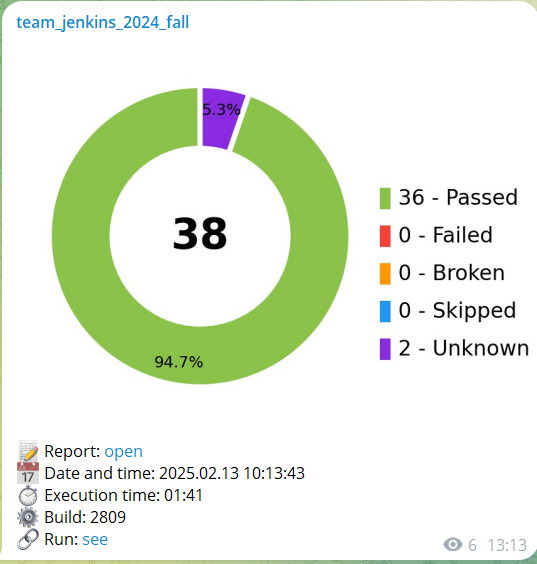
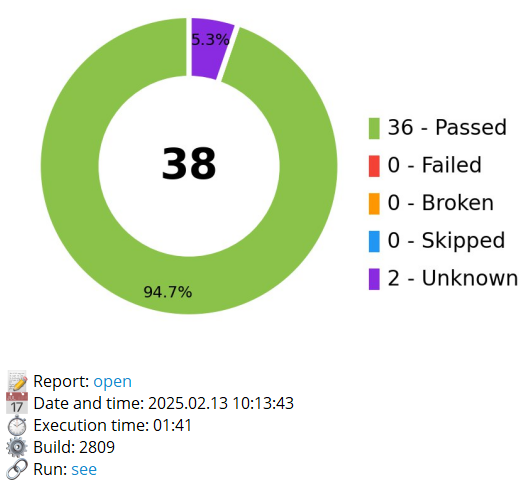
Readme

diff --git a/README.md b/README.md
@@ -13,7 +13,7 @@
 - <a href="#settings"> Settings</a>
 - <a href="#autotests"> Running Tests Locally</a>
 - <a href="#allureReport"> Allure Report Example</a>
-- <a href="#tg"> Notifications in Telegram</a>
+- <a href="#tg"> Telegram Bot Notification</a>
 
 ## Tech Stack
 
@@ -101,9 +101,10 @@ Example of the [Allure Report](https://redroverschool.github.io/JenkinsQA_2024_f
 
 ____
 <a id="tg"></a>
-## <img width="30" style="vertical-align:middle" title="Telegram" src="media/telegram.svg"> Notifications in Telegram
-После завершения сборки, бот, созданный в <code>Telegram</code>, автоматически обрабатывает и отправляет сообщение с отчетом
-о прогоне тестов в [специально настроенный чат](https://t.me/+m0gDb0Dy9ckwZTYy).
+## <img width="30" style="vertical-align:middle" title="Telegram" src="media/telegram.svg"> Telegram Bot Notification
+
+After the build is completed, a bot created in <code>Telegram</code> automatically processes the results and sends a message with the test run report to a [specially configured chat](https://t.me/team_jenkins_2024_fall).
+
 <div style="background-color: #18222d">
 <p align="center">
 <img width="40%" title="Telegram Notifications" src="media/tg.png">
